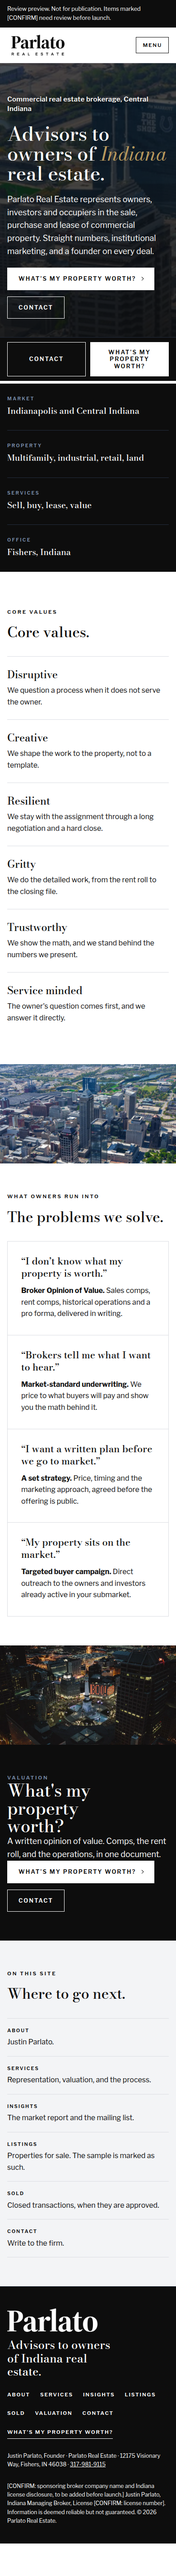
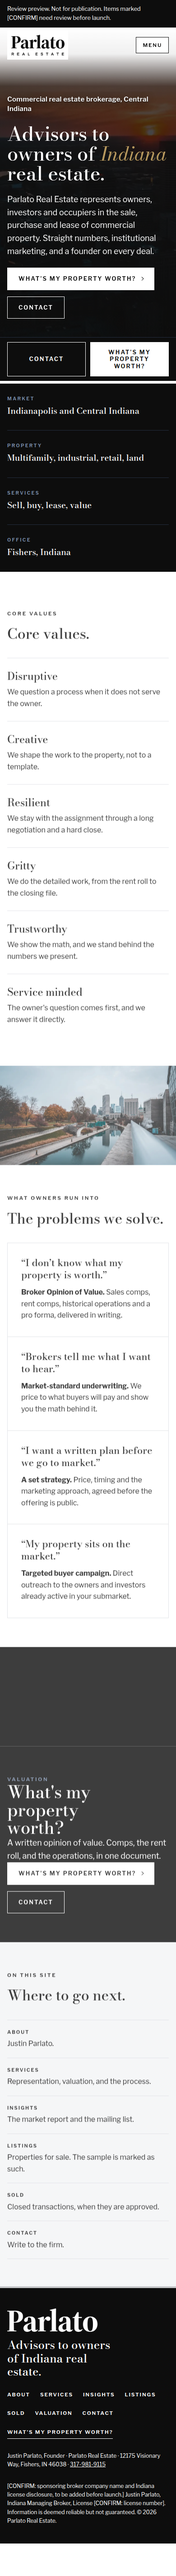
Fade the photo-hero header from white to clear.
The bar overlays the photograph and turns solid white, with a Rule Grey edge, after the page scrolls. Pages without a photo hero stay solid white.

diff --git a/css/styles.css b/css/styles.css
@@ -234,7 +234,7 @@ p { margin: 0; }
 }
 .band.ink .confirm, .hero .confirm, .foot .confirm { color: var(--white); }
 
-/* Header. Solid white across the viewport, including while sticky. */
+/* Header. Solid white, except over a photo hero, where it fades out. */
 .site-head {
   position: sticky;
   top: env(safe-area-inset-top, 0px);
@@ -242,6 +242,29 @@ p { margin: 0; }
   width: 100%;
   background: #fff;
   border-bottom: 1px solid #DCDEE3;
+  overflow: visible;
+}
+body:has(main > section.hero-photo:first-of-type) .site-head {
+  background: transparent;
+  border-bottom-color: transparent;
+}
+body:has(main > section.hero-photo:first-of-type) .site-head::before {
+  content: "";
+  position: absolute;
+  z-index: -1;
+  left: 0;
+  right: 0;
+  top: 0;
+  height: calc(100% + 52px);
+  pointer-events: none;
+  background: linear-gradient(to bottom, rgba(255, 255, 255, 1) 0%, rgba(255, 255, 255, 0.92) 45%, rgba(255, 255, 255, 0) 100%);
+}
+body:has(main > section.hero-photo:first-of-type) .site-head.is-solid {
+  background: #fff;
+  border-bottom-color: #DCDEE3;
+}
+body:has(main > section.hero-photo:first-of-type) .site-head.is-solid::before {
+  content: none;
 }
 .site-head .wrap {
   display: flex;
@@ -299,7 +322,7 @@ p { margin: 0; }
     border-bottom: 1px solid #DCDEE3;
     padding: 24px max(16px, env(safe-area-inset-right, 0px)) 28px max(16px, env(safe-area-inset-left, 0px));
   }
-  .nav.open { display: flex; }
+  .nav.open { display: flex; z-index: 2; background: #fff; }
   .nav a:not(.btn) { color: var(--black); }
   .nav .btn.solid { background: var(--black); color: var(--white); border-color: var(--black); }
 }
@@ -1267,6 +1290,27 @@ img[src*="banner-indy-downtown"] { object-position: center 17%; }
 .route:hover { background: var(--stone); }
 .hero-photo.short { min-height: 72vh; }
 .hero-photo.banner { min-height: 52vh; }
+body:has(main > section.hero-photo:first-of-type) main > section.hero-photo:first-of-type {
+  margin-top: -78px;
+  min-height: calc(100svh - 40px);
+}
+body:has(main > section.hero-photo:first-of-type) main > section.hero-photo.short:first-of-type {
+  min-height: calc(72vh + 78px);
+}
+body:has(main > section.hero-photo:first-of-type) main > section.hero-photo.banner:first-of-type {
+  min-height: calc(52vh + 78px);
+}
+@media (max-width: 960px) {
+  body:has(main > section.hero-photo:first-of-type) main > section.hero-photo:first-of-type {
+    min-height: calc(100svh - 72px);
+  }
+  body:has(main > section.hero-photo:first-of-type) main > section.hero-photo.short:first-of-type {
+    min-height: calc(72vh + 78px);
+  }
+  body:has(main > section.hero-photo:first-of-type) main > section.hero-photo.banner:first-of-type {
+    min-height: calc(52vh + 78px);
+  }
+}
 .worth-band h2 { font-size: clamp(2.4rem, 5vw, 4.2rem); max-width: 12ch; line-height: 1.02; text-align: left; }
 .next-steps { margin: 8px 0 0; padding-left: 1.2em; display: grid; gap: 10px; }
 .next-steps li { max-width: 46ch; }

diff --git a/js/main.js b/js/main.js
@@ -1,4 +1,14 @@
 (function () {
+  var head = document.querySelector(".site-head");
+  var hero = document.querySelector("main > section.hero-photo");
+  if (head && hero && hero === document.querySelector("main > section")) {
+    function paintHead() {
+      head.classList.toggle("is-solid", window.scrollY > 8);
+    }
+    paintHead();
+    window.addEventListener("scroll", paintHead, { passive: true });
+  }
+
   document.documentElement.classList.add("js");
   var revealReduce = window.matchMedia("(prefers-reduced-motion: reduce)").matches;
   if (!revealReduce && "IntersectionObserver" in window) {

diff --git a/CHANGES.md b/CHANGES.md
@@ -13,7 +13,7 @@ The site is now separate pages. Navigation order is About, Services, Insights, L
 - About is a founder layout (centered heading, portrait beside the name, role line, credential rows). Longer bio sections are placeholder blocks, not new copy.
 - Listings uses one data file, a grayscale Leaflet map (OpenStreetMap raster tiles, no WebGL), and filterable cards. The map is the large sticky pane. The only record is the illustrative Riverbend Commons sample, and its price is shown as "Price: sample" so the figure is not read as a live asking price. Sold is an empty map plus an empty table.
 - The home hero still includes the flagged line "A founder on every deal." It is kept on purpose and listed under Claims flagged for verification.
-- The header is a solid white bar across the full width on every page, with the black logo and dark navigation. It stays white while sticky. The hero photograph starts below the bar.
+- On a page with a photo hero, the header overlays the photograph and fades from solid white at the top to clear at the bottom. After a scroll it becomes solid white with a Rule Grey edge. Pages without a photo hero keep the solid white bar. The logo and navigation stay black.
 - The home line "Commercial real estate brokerage, Central Indiana" is 18px on desktop and 15px on a phone, Libre Franklin 600, white, with a darker lower-left scrim and a soft shadow.
 - Design re-audit is in `DESIGN-AUDIT.md`. About, Contact, and Valuation open on a short photograph. Listing cards are photo first. An empty Sold page does not draw a map or a building photograph. The Services page no longer repeats the same photograph in one view.
 - Photo spots stay marked [PLACEHOLDER PHOTO: replace with Parlato photography] and are credited in `images/CREDITS.md`. The home hero, the downtown banner, and the grid banner are Joseph Surak's own Indianapolis aerials, not stock. The grid crop keeps the street grid and keeps the stadium and team signage from dominating. Monument Circle and the other tiles stay licensed stand-ins. The headshot stays grayscale.
